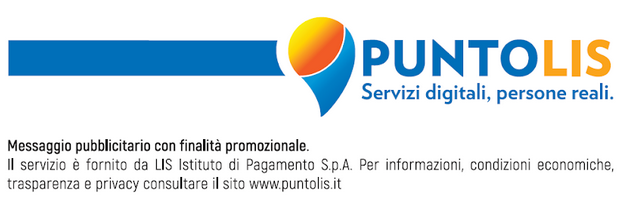
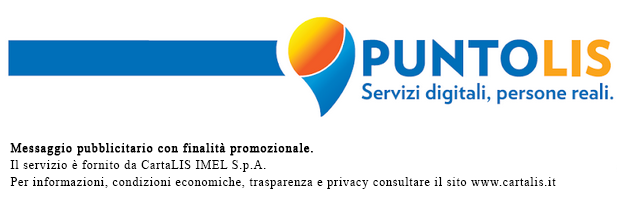
edited cartalis bulletin text

Changed region(s): [[0.0, 0.6732, 1.0, 0.9366]]

diff --git a/woocommerce-payment-cartalis.php b/woocommerce-payment-cartalis.php
@@ -421,9 +421,9 @@ function init_wc_cartalis_payment_gateway() {
             $barcode = $this->uploadDir['basedir'].'/barcode/'.$order_id.'.png';
             $filename = $this->uploadDir['basedir'].'/deposit/'.$order_id.'.pdf';
 
-            $text_top = utf8_decode("Vai in una tabaccheria, edicola o bar PUNTOLIS, puoi pagare in modo comodo e veloce semplicemente mostrando il codice a barre riportato sotto.");
+            $text_top = utf8_decode("Vai in una tabaccheria PUNTOLIS, edicola o bar convenzionati con CartaLIS IMEL S.p.A., puoi pagare in modo comodo e veloce semplicemente mostrando il codice a barre riportato sotto.");
             $text_top1 = utf8_decode("Il pagamento può essere effettuato con carte di credito e prepagate VISA e MASTERCARD, con carte PagoBancomat o contanti.");
-            $text_top2 = utf8_decode("Cerca il punto più vicino a te su www.puntolis.it");
+            $text_top2 = utf8_decode("Cerca il PUNTOLIS più vicino a te su www.cartalis.it");
 
             require( __DIR__ . '/ws_fpdf.php');
             $pdf = new ws_fpdf();
